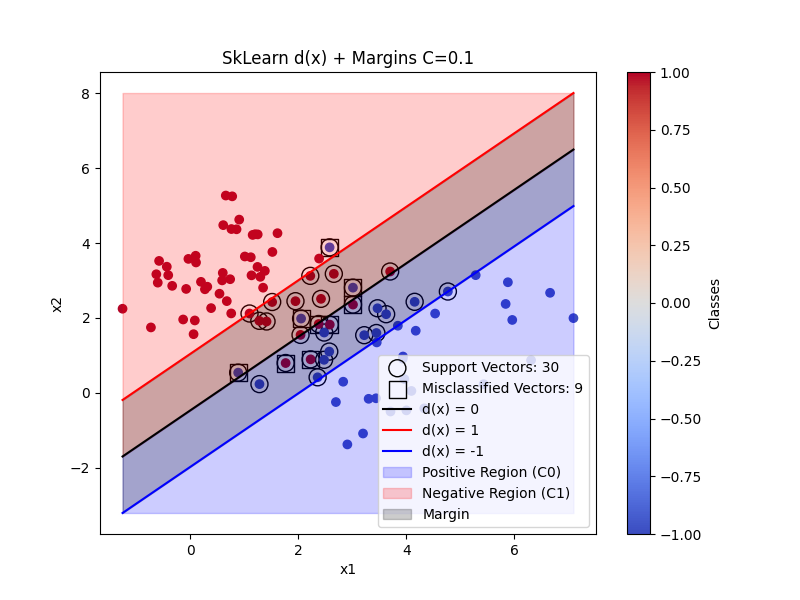
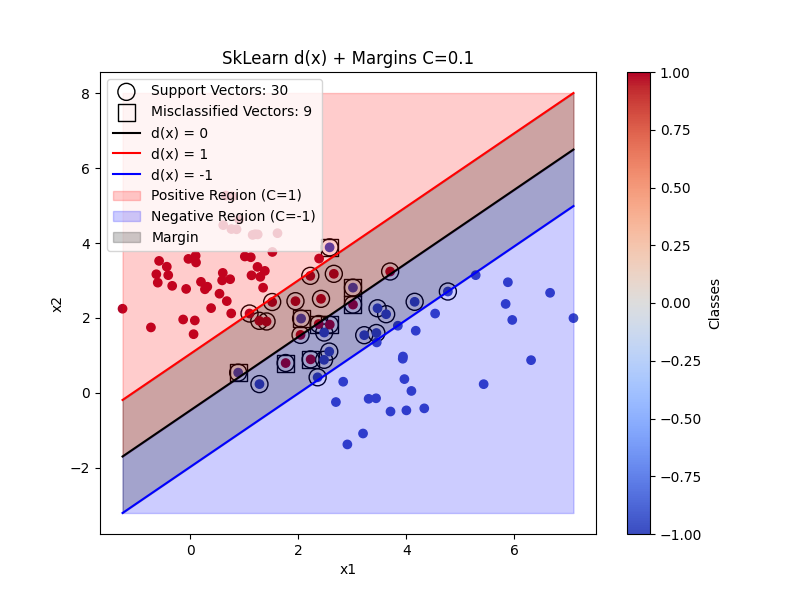
Graph Fix

Changed region(s): [[0.125, 0.12, 0.4062, 0.42], [0.4688, 0.57, 0.75, 0.87]]

diff --git a/ML_PR/Pattern Rec/Project 2/Rodriguez_Silas_Project2.py b/ML_PR/Pattern Rec/Project 2/Rodriguez_Silas_Project2.py
@@ -128,12 +128,12 @@ def SoftMargin_SVM(X:np.ndarray, t:np.ndarray, C:float, req_reclass:bool=False, 
         plt.plot(x_line, margin1, c='red', label='d(x) = 1')
         plt.plot(x_line, margin2, c='blue', label='d(x) = -1')
 
-        # Shade the entire region below margin2 in blue
-        plt.fill_between(x_line, y_line, min(margin2), color='blue', alpha=0.2, label='Positive Region (C0)')
         # Shade the entire region above margin1 in red
-        plt.fill_between(x_line, y_line, max(margin1), color='red', alpha=0.2, label='Negative Region (C1)')
+        plt.fill_between(x_line, y_line, max(margin1), color='red', alpha=0.2, label='Positive Region (C=1)')
+        # Shade the entire region below margin2 in blue
+        plt.fill_between(x_line, y_line, min(margin2), color='blue', alpha=0.2, label='Negative Region (C=-1)')
         # shade the margin with gray
-        plt.fill_between(x_line, margin1, margin2, color='black', alpha=0.2, label='Maximized Margin')
+        plt.fill_between(x_line, margin1, margin2, color='black', alpha=0.2, label='Margin')
 
         plt.legend()
         plt.xlabel('x1')
@@ -205,10 +205,10 @@ def SkLearn_SVM(X:np.ndarray, t:np.ndarray, C:float, req_reclass:bool=False, plo
         plt.plot(x_line, margin1, c='red', label='d(x) = 1')
         plt.plot(x_line, margin2, c='blue', label='d(x) = -1')
 
-        # Shade the entire region below margin2 in blue
-        plt.fill_between(x_line, y_line, min(margin2), color='blue', alpha=0.2, label='Positive Region (C0)')
         # Shade the entire region above margin1 in red
-        plt.fill_between(x_line, y_line, max(margin1), color='red', alpha=0.2, label='Negative Region (C1)')
+        plt.fill_between(x_line, y_line, max(margin1), color='red', alpha=0.2, label='Positive Region (C=1)')
+        # Shade the entire region below margin2 in blue
+        plt.fill_between(x_line, y_line, min(margin2), color='blue', alpha=0.2, label='Negative Region (C=-1)')
         # shade the margin with gray
         plt.fill_between(x_line, margin1, margin2, color='black', alpha=0.2, label='Margin')
 
